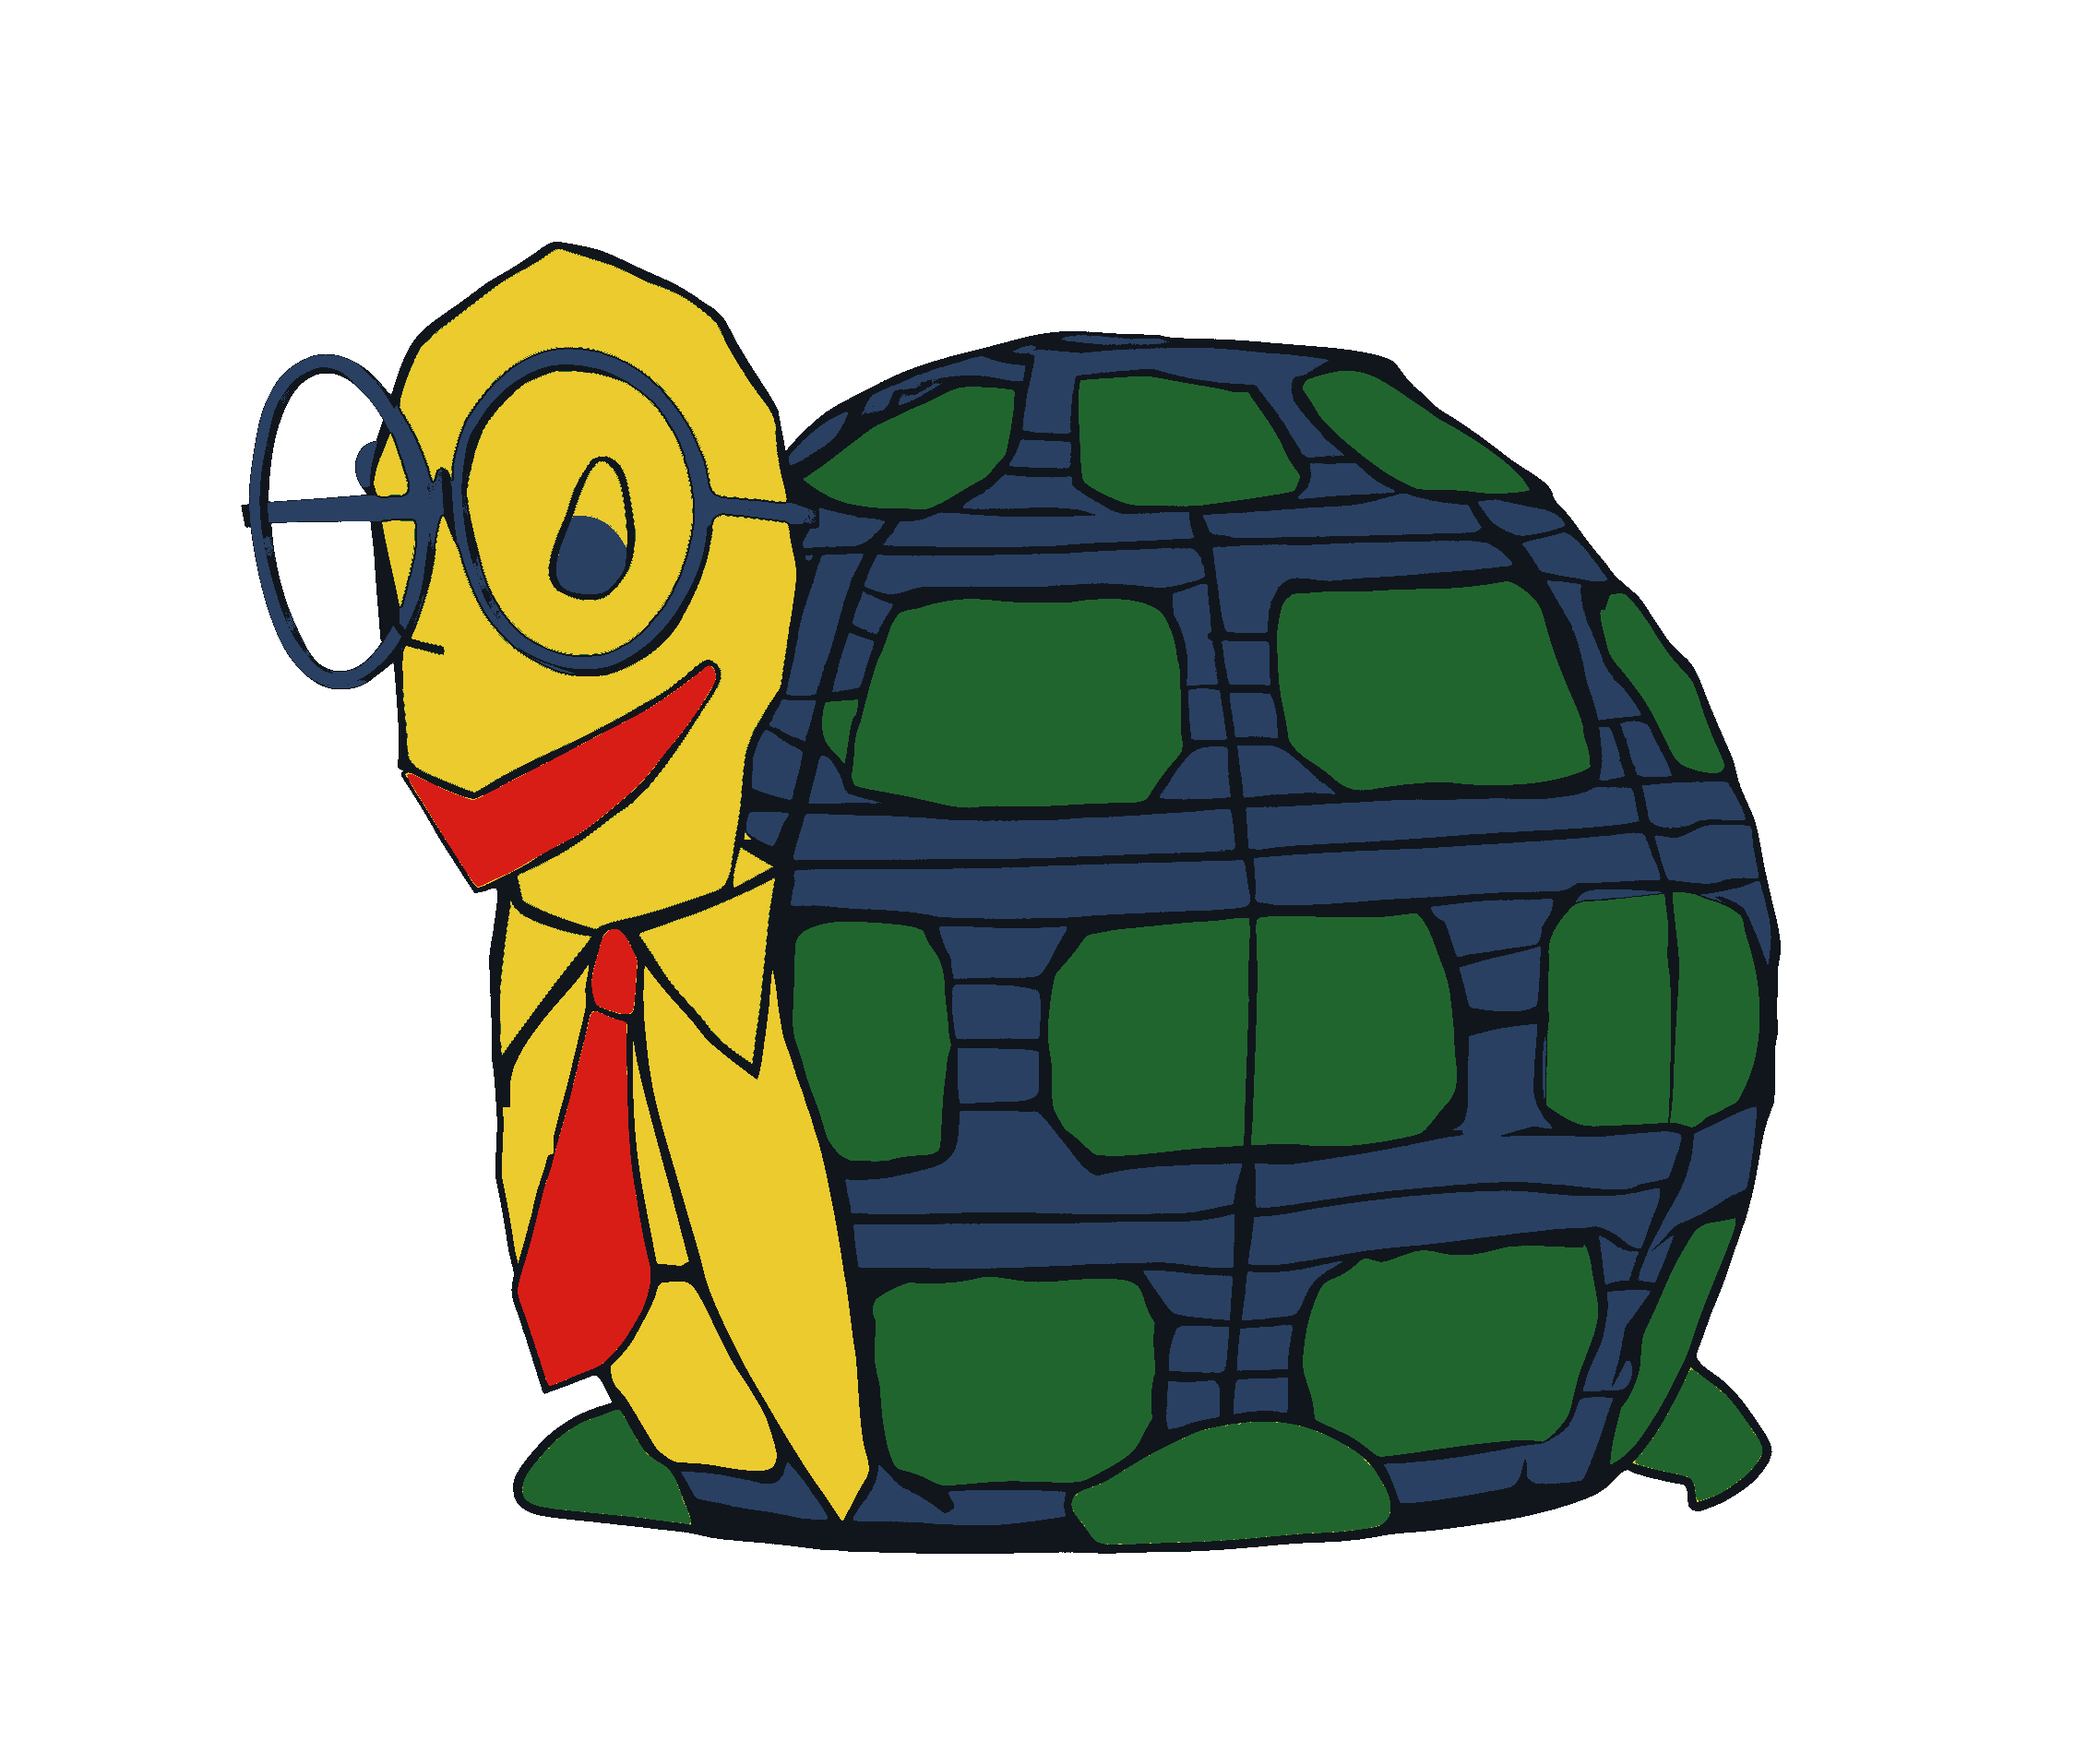
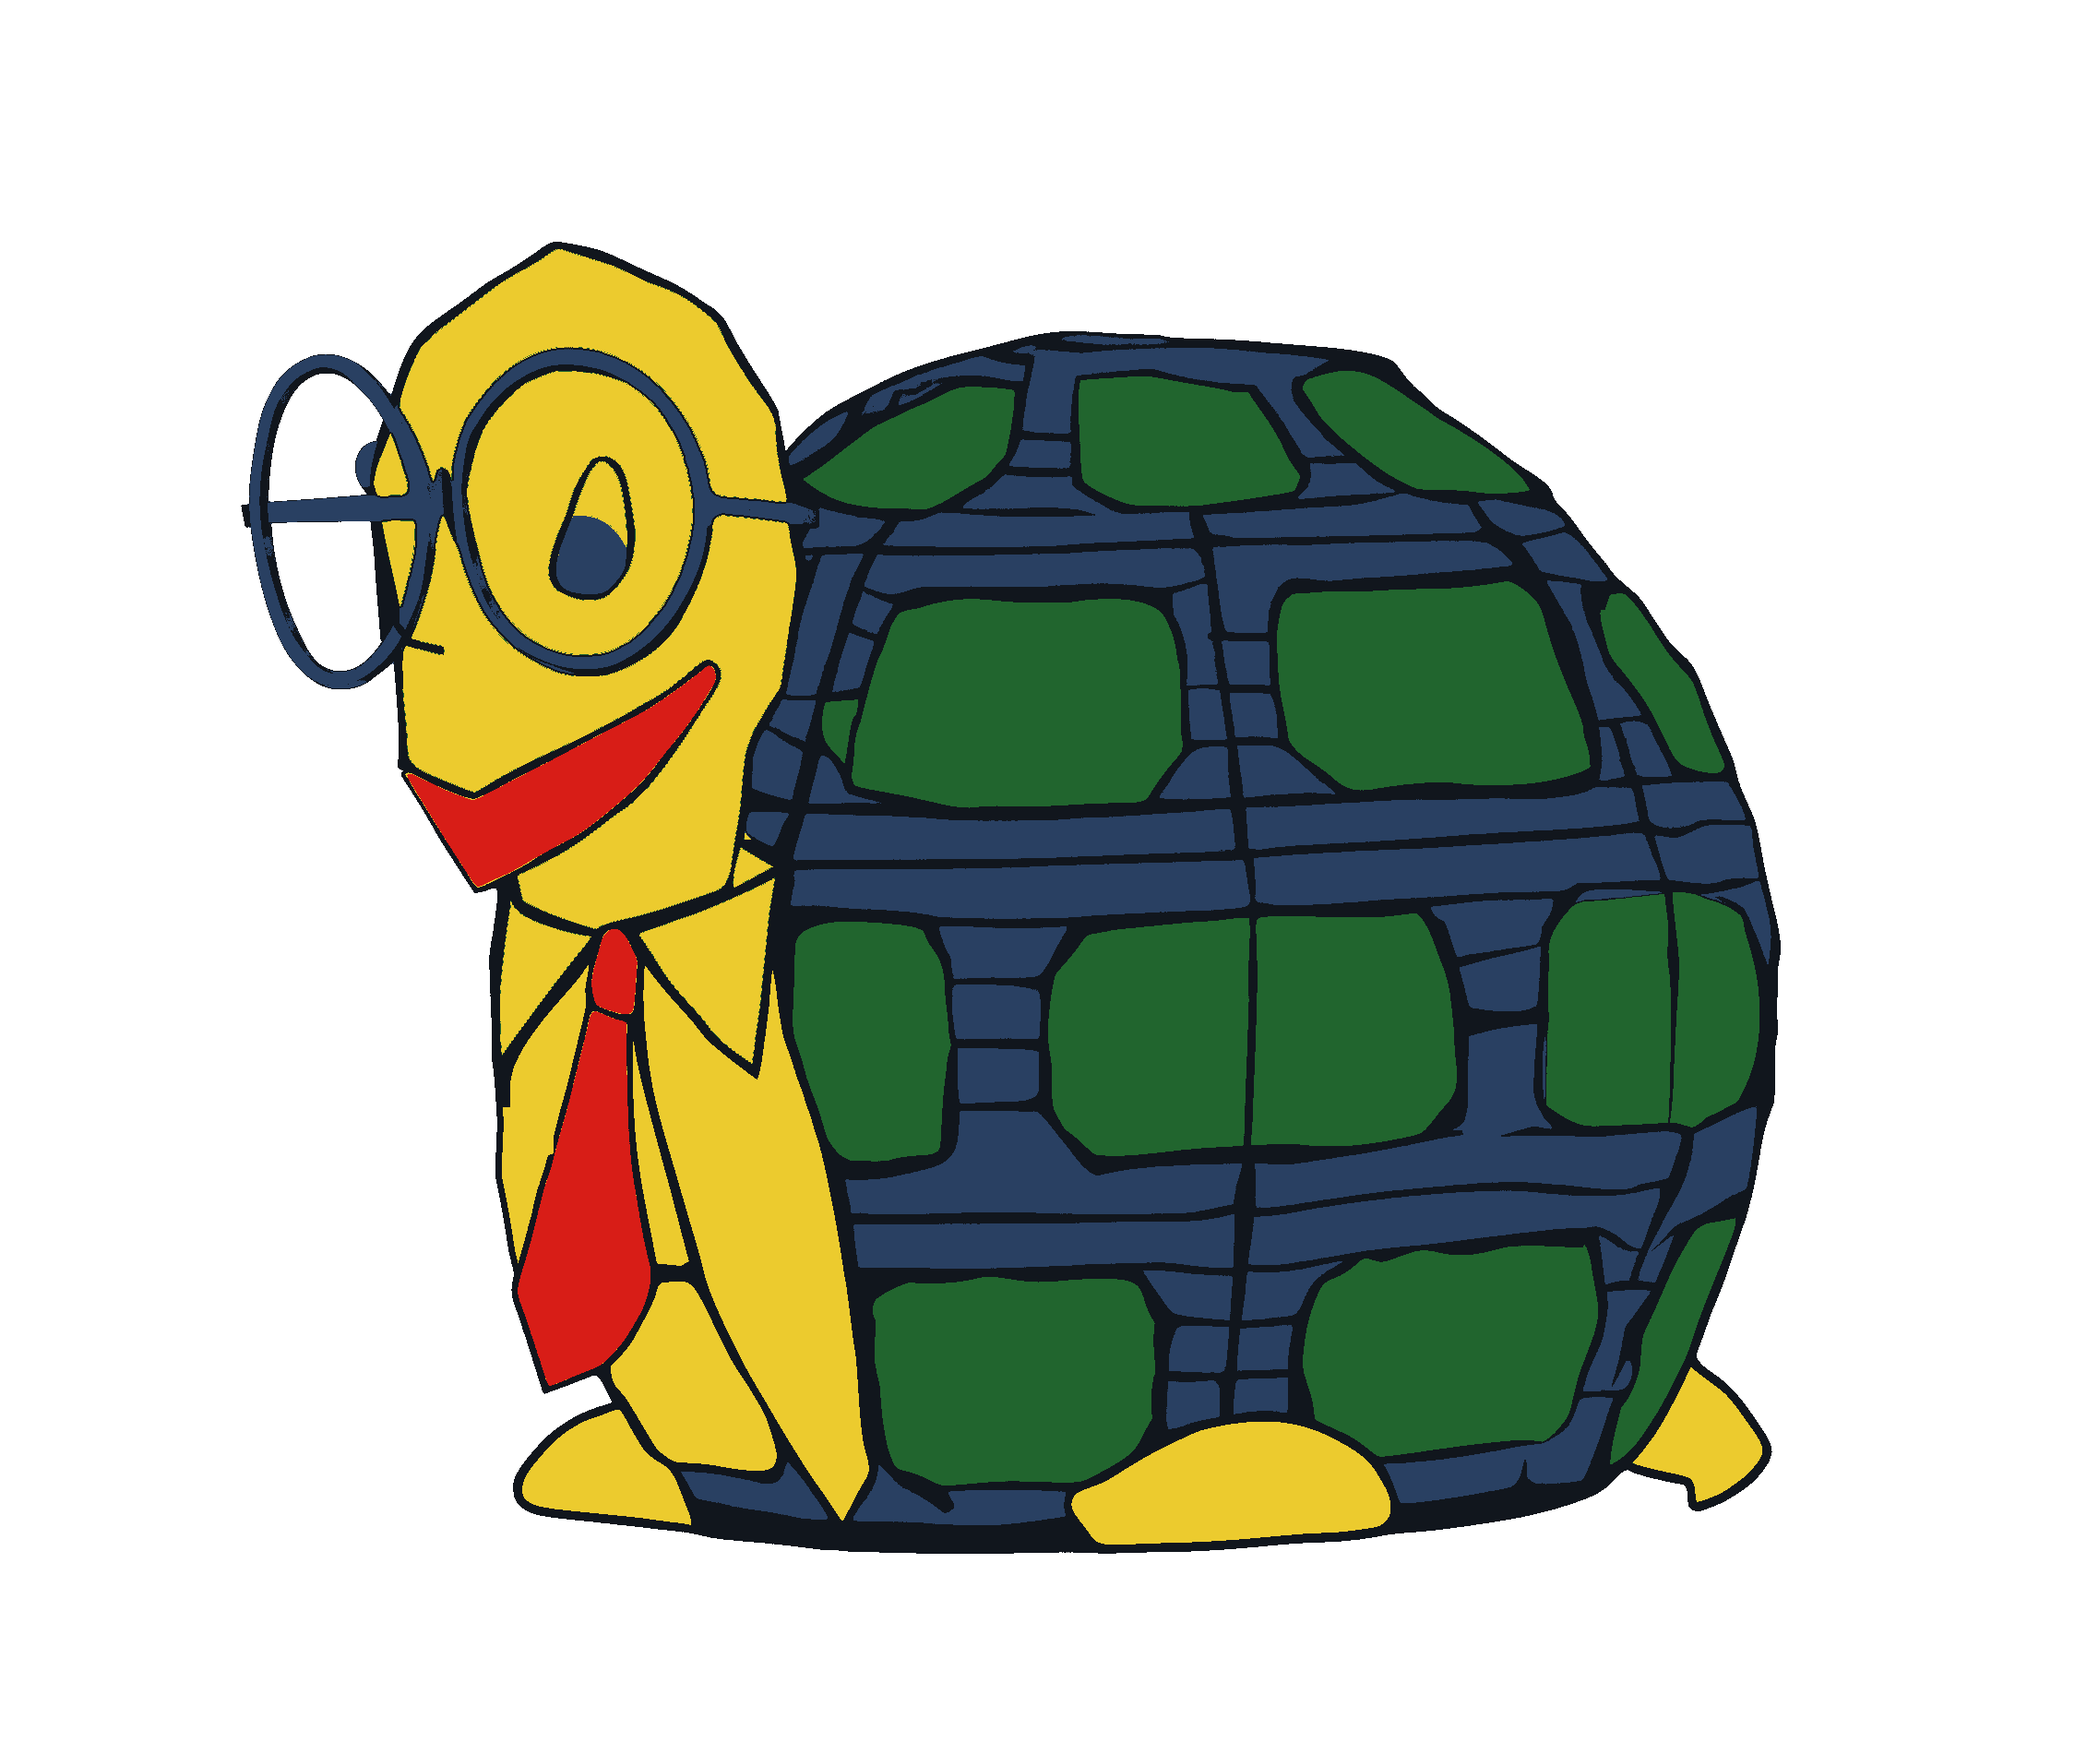
feat(turtle): recolor turtle feet to matching Disney yellow

Changed region(s): [[0.4951, 0.8125, 0.6808, 0.9062], [0.7737, 0.7812, 0.8665, 0.875], [0.2476, 0.8125, 0.3404, 0.875]]

diff --git a/simulator/app.js b/simulator/app.js
@@ -191,7 +191,7 @@ spinningTurtleImg.onload = () => {
     spinningTurtleLoaded = true;
     notifyFloatImgLoaded();
 };
-spinningTurtleImg.src = 'assets/Turtle_clean.png?v=20261103_turtle_shirt_clean';
+spinningTurtleImg.src = 'assets/Turtle_clean.png?v=20261103_turtle_yellow_feet';
 
 // Spinning Snail Artwork (Default transparent PNG graphic from SimpleSnail.png)
 const spinningSnailImg = new Image();
@@ -264,7 +264,7 @@ const floatArtworkImgs = {
 floatArtworkImgs['casey_jr_train'].src = 'assets/Simpletrain.png?v=20261103';
 floatArtworkImgs['title_drum'].src = 'assets/title_drum.png';
 floatArtworkImgs['drumcleanedup'].src = 'assets/Drumcleanedup.png';
-floatArtworkImgs['spinning_turtle'].src = 'assets/Turtle_clean.png?v=20261103_turtle_shirt_clean';
+floatArtworkImgs['spinning_turtle'].src = 'assets/Turtle_clean.png?v=20261103_turtle_yellow_feet';
 floatArtworkImgs['spinning_snail'].src = 'assets/SimpleSnail.png';
 floatArtworkImgs['spinning_snail_original'].src = 'assets/SimpleSnail.png';
 floatArtworkImgs['spinning_snail_simplified'].src = 'assets/spinning_snail_simplified.png';

diff --git a/PROJECT_PROGRESS.md b/PROJECT_PROGRESS.md
@@ -93,6 +93,23 @@ This project coordinates synchronized, addressable LED lighting across **7 runne
 
 ## Progress Log
 
+### 2026-11-03: Float 3 (The Spinning Turtle) Asset Refinement - Recolor Turtle Feet to Matching Yellow
+- **Matching Yellow Turtle Feet:**
+  - Recolored all three turtle feet (front foot under shirt, central arched walking pad, and rear flipper, 57,711 px) from green to Disney Yellow (`#eccb2e` / `[236, 203, 46]`).
+  - Creates a unified skin theme matching the turtle's head, neck, and yellow shirt, while restricting green exclusively to the shell plates.
+  - Preserved crisp black bounding outlines and chassis placement beneath the dark blue frame.
+- **Strict 5-Color Multi-Material Slicing Verification:**
+  - 100% discrete 5-color quantization across all 1,754,880 foreground pixels:
+    1. **Black (`#11161d` / `[17, 22, 29, 255]`):** Outlines, chassis, and eye loop (341,477 px / 19.46%).
+    2. **Green (`#21652e` / `[33, 101, 46, 255]`):** Shell scutes/plates (532,773 px / 30.36%).
+    3. **Blue (`#294062` / `[41, 64, 98, 255]`):** Shell grid, eyeglass frames, and restored arched eye pupil (440,196 px / 25.08%).
+    4. **Yellow (`#eccb2e` / `[236, 203, 46, 255]`):** Head, eye highlight, neck, full dress shirt, and feet (377,094 px / 21.49%).
+    5. **Red (`#d81d17` / `[216, 29, 23, 255]`):** Red necktie and mouth/lips (63,340 px / 3.61%).
+- **Asset Deployment & Simulator Synchronization:**
+  - Deployed updated PNG to all 6 production and simulator asset paths (`assets/` and `simulator/assets/`).
+  - Updated simulator cache-buster query strings in `simulator/app.js` to `?v=20261103_turtle_yellow_feet`.
+  - Updated `turtle_asset_review.md` artifact with feet detail crop and refreshed palette counts.
+
 ### 2026-11-03: Float 3 (The Spinning Turtle) Asset Refinement - Removed Extra Internal Shirt Lines
 - **Removed Extra Internal Shirt Dividers:**
   - Removed the internal black partition branch and horizontal cross-strut (1,799 pixels) from the left side of the red tie where the old untucked flap and belly plate had been unified.
